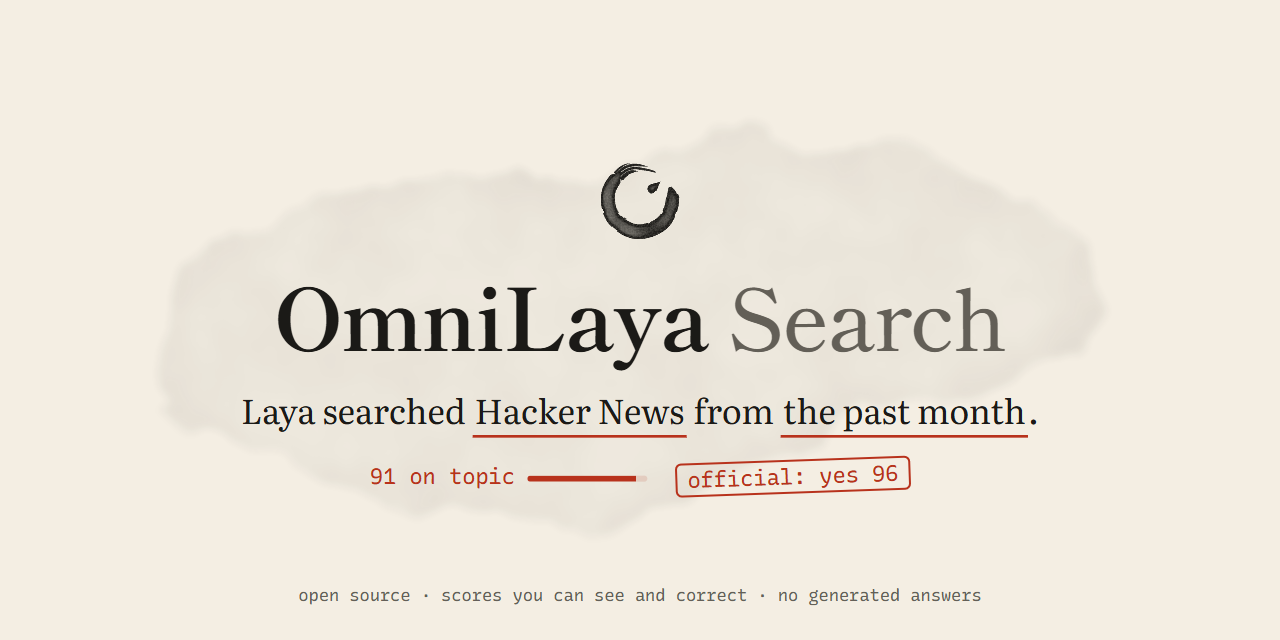
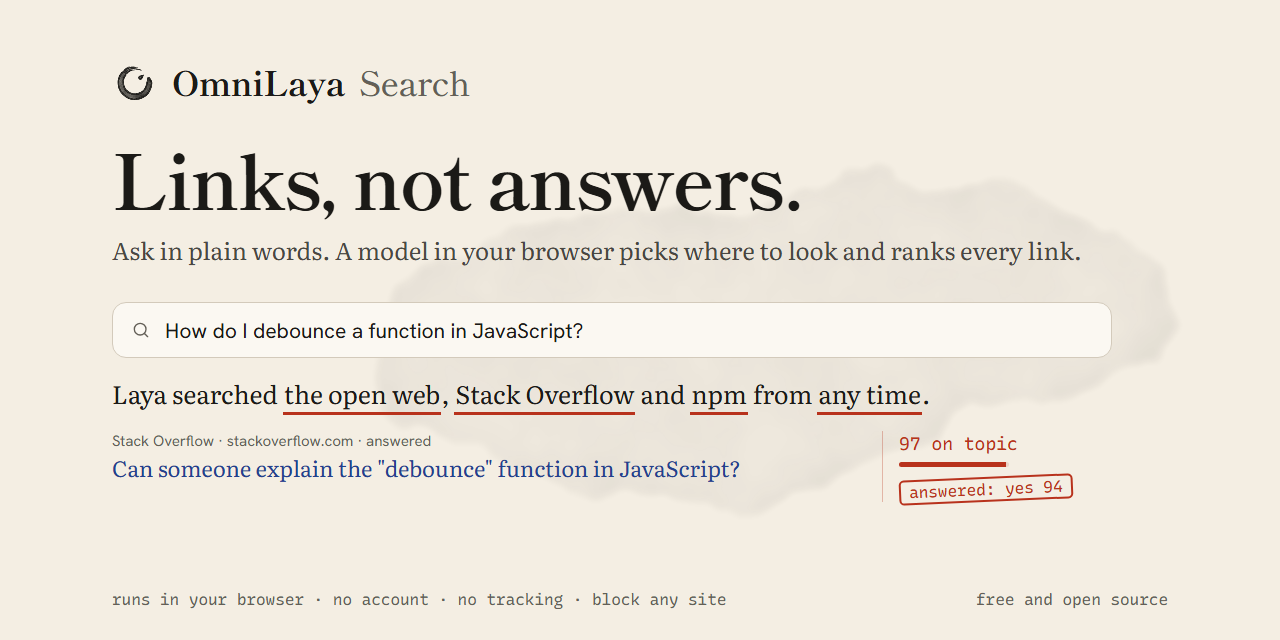
Position OmniLaya as "links, not answers"
Copy now follows what people ask of search in 2025 and 2026 (forum
research): give me the links, let me block sites, no account or
tracking. New share image showing a multi-place search, a rewritten
home page, about intro and README "Why OmniLaya" section with sourced
figures (Pew 2025, Spracklen et al. 2024) and plain limits.

diff --git a/brand/og.html b/brand/og.html
@@ -3,31 +3,60 @@
 <head>
 <meta charset="utf-8">
 <title>OmniLaya share image</title>
-<link rel="stylesheet" href="https://fonts.googleapis.com/css2?family=Shippori+Mincho:wght@500;700&family=Literata:opsz,wght@7..72,400;7..72,500&family=Hanken+Grotesk:wght@400;500&family=Recursive:wght,CASL,MONO@400..600,0..1,0..1&display=swap">
+<link rel="stylesheet" href="https://fonts.googleapis.com/css2?family=Shippori+Mincho:wght@500;700&family=Literata:opsz,wght@7..72,400;7..72,500&family=Hanken+Grotesk:wght@400;500;600&family=Recursive:wght,CASL,MONO@400..600,0..1,0..1&display=swap">
 <style>
-  /* Rendered at 1200x630 into public/og-home.png. Colours and faces from DESIGN.md. */
+  /*
+   * Rendered at 1200x630 into public/og-home.png (and local/public/og-home.png),
+   * then centred on 1280x640 paper for brand/github/social-preview.png.
+   * Colours and faces from DESIGN.md: seal red only on what Laya decided.
+   */
   html, body { margin: 0; width: 1200px; height: 630px; overflow: hidden; background: #f4eee3; color: #1b1a17; font-family: 'Hanken Grotesk', sans-serif; }
-  .wash { position: absolute; left: 50%; top: 50%; width: 1300px; transform: translate(-50%, -50%); opacity: 0.1; }
-  .wrap { position: relative; height: 100%; display: flex; flex-direction: column; align-items: center; justify-content: center; }
-  h1 { margin: 20px 0 0; font: 700 86px/1 'Shippori Mincho', Georgia, serif; letter-spacing: -0.02em; }
-  h1 span { font-weight: 500; color: #635f57; }
-  .sentence { margin: 30px 0 0; font: 400 34px/1.4 Literata, Georgia, serif; }
-  .pick { border-bottom: 3px solid #b8321c; padding: 0 2px; }
-  .mark { margin-top: 26px; display: flex; gap: 28px; align-items: center; font: 22px Recursive, monospace; font-variation-settings: 'MONO' 1, 'CASL' 0.6; color: #b8321c; }
-  .tick { width: 120px; height: 6px; border-radius: 3px; background: rgba(184, 50, 28, 0.14); overflow: hidden; display: inline-block; vertical-align: middle; margin-left: 12px; }
-  .tick i { display: block; width: 91%; height: 100%; background: #b8321c; }
-  .stamp { border: 2px solid #b8321c; border-radius: 6px; padding: 2px 10px; transform: rotate(-2deg); }
-  .foot { position: absolute; bottom: 30px; font: 17px Recursive, monospace; font-variation-settings: 'MONO' 1, 'CASL' 0.6; color: #635f57; }
+  .wash { position: absolute; left: 62%; top: 52%; width: 1100px; transform: translate(-50%, -50%); opacity: 0.09; }
+  .wrap { position: relative; height: 100%; box-sizing: border-box; padding: 54px 72px 0; }
+  .brand { display: flex; align-items: center; gap: 14px; font: 700 34px/1 'Shippori Mincho', Georgia, serif; letter-spacing: -0.015em; }
+  .brand span { font-weight: 500; color: #635f57; }
+  h1 { margin: 34px 0 0; font: 700 76px/1.02 'Shippori Mincho', Georgia, serif; letter-spacing: -0.025em; }
+  .sub { margin: 16px 0 0; font: 400 24px/1.4 Literata, Georgia, serif; color: rgba(27, 26, 23, 0.8); }
+  .page { margin-top: 36px; width: 1000px; }
+  .query { display: flex; align-items: center; gap: 14px; height: 54px; padding: 0 18px; border: 1px solid #d3cabb; border-radius: 14px; background: #fbf8f2; font-size: 21px; color: #1b1a17; }
+  .query svg { flex: none; }
+  .sentence { margin: 18px 0 0; font: 400 25px/1.4 Literata, Georgia, serif; }
+  .pick { border-bottom: 3px solid #b8321c; padding: 0 1px; }
+  .row { margin-top: 20px; display: grid; grid-template-columns: 1fr 230px; gap: 26px; align-items: start; }
+  .meta { font-size: 15px; color: #635f57; }
+  .title { margin-top: 3px; font: 400 22px/1.3 Literata, Georgia, serif; color: #23408e; }
+  .margin { border-left: 1px solid rgba(184, 50, 28, 0.3); padding: 2px 0 0 16px; font: 18px Recursive, monospace; font-variation-settings: 'MONO' 1, 'CASL' 0.6; color: #b8321c; }
+  .tick { margin-top: 7px; width: 110px; height: 5px; border-radius: 3px; background: rgba(184, 50, 28, 0.14); overflow: hidden; }
+  .tick i { display: block; width: 97%; height: 100%; background: #b8321c; }
+  .stamp { display: inline-block; margin-top: 10px; border: 2px solid #b8321c; border-radius: 5px; padding: 1px 8px; transform: rotate(-2.5deg); font-size: 16px; }
+  .foot { position: absolute; left: 72px; right: 72px; bottom: 26px; display: flex; justify-content: space-between; font: 16px Recursive, monospace; font-variation-settings: 'MONO' 1, 'CASL' 0.6; color: #635f57; }
 </style>
 </head>
 <body>
   <img class="wash" src="../public/wash.webp" alt="">
   <div class="wrap">
-    <img src="logo/mark-wash.svg" width="104" height="104" alt="">
-    <h1>OmniLaya <span>Search</span></h1>
-    <p class="sentence">Laya searched <span class="pick">Hacker News</span> from <span class="pick">the past month</span>.</p>
-    <div class="mark"><span>91 on topic<span class="tick"><i></i></span></span><span class="stamp">official: yes 96</span></div>
-    <div class="foot">open source · scores you can see and correct · no generated answers</div>
+    <div class="brand"><img src="logo/mark-wash.svg" width="46" height="46" alt="">OmniLaya <span>Search</span></div>
+    <h1>Links, not answers.</h1>
+    <p class="sub">Ask in plain words. A model in your browser picks where to look and ranks every link.</p>
+    <div class="page">
+      <div class="query">
+        <svg width="20" height="20" viewBox="0 0 24 24" fill="none" stroke="#635f57" stroke-width="1.6" stroke-linecap="round"><circle cx="11" cy="11" r="7"/><path d="m20 20-3.5-3.5"/></svg>
+        How do I debounce a function in JavaScript?
+      </div>
+      <p class="sentence">Laya searched <span class="pick">the open web</span>, <span class="pick">Stack Overflow</span> and <span class="pick">npm</span> from <span class="pick">any time</span>.</p>
+      <div class="row">
+        <div>
+          <div class="meta">Stack Overflow · stackoverflow.com · answered</div>
+          <div class="title">Can someone explain the "debounce" function in JavaScript?</div>
+        </div>
+        <div class="margin">
+          <div>97 on topic</div>
+          <div class="tick"><i></i></div>
+          <span class="stamp">answered: yes 94</span>
+        </div>
+      </div>
+    </div>
   </div>
+  <div class="foot"><span>runs in your browser · no account · no tracking · block any site</span><span>free and open source</span></div>
 </body>
 </html>

diff --git a/local/src/app.tsx b/local/src/app.tsx
@@ -83,15 +83,19 @@ function SearchForm({ initial, compact, onSearch }: { initial: string; compact?:
 }
 
 const EXAMPLES = [
-  'Rust async runtimes on Hacker News this month',
   'How do I debounce a function in JavaScript?',
+  'A maintained date library for TypeScript',
+  'Rust async runtimes on Hacker News this month',
   'New papers on speculative decoding',
 ];
 
+// Written from what people ask of search in 2025 and 2026: "just give me the links", block sites
+// they do not trust, and no account or tracking. See README, "Why OmniLaya".
 const PROMISES = [
-  ['Runs on your device', 'Laya, the model that reads your request and ranks the results, runs in this tab. There is no OmniLaya server.'],
-  ['Every score in the open', 'Each result shows how sure Laya is, and you can strike a place, move the cutoff, or mark Laya wrong.'],
-  ['Free, no account', 'Keyless open sources: an open web index, Wikipedia, Hacker News, GitHub, Stack Overflow, OpenAlex, Open Library and npm.'],
+  ['Just the links', 'No AI answer on top, so there is nothing made up to check. You get the docs, repos, threads, packages and papers, and judge them yourself.'],
+  ['The right places, picked for you', 'Ask in plain words. Laya decides where to look: the open web, GitHub, npm, Stack Overflow, Hacker News, papers, books or Wikipedia. Every package and repo shown is a real entry.'],
+  ['You set the rules', 'Block, raise or lower any site. Hide results below a score you choose. Ask a yes or no question, like "Is this official documentation?", and every result gets an answer.'],
+  ['No account, no tracking, free', 'Laya runs in this tab, and your search goes straight to those sources with no OmniLaya server in between. Open source, so anyone can host a copy.'],
 ] as const;
 
 export function App() {
@@ -144,7 +148,7 @@ export function App() {
       document.title = `${params.q} · OmniLaya Search`;
     } else {
       robots?.remove();
-      document.title = 'OmniLaya Search: search that runs on your device';
+      document.title = 'OmniLaya Search: links, not answers';
     }
   }, [params.q]);
 
@@ -285,7 +289,7 @@ export function App() {
           OmniLaya <span className="font-medium text-muted-foreground">Search</span>
         </h1>
         <p className="mt-3 max-w-md text-balance text-center text-[15px] text-muted-foreground sm:text-base">
-          Search that runs on your device. No server, no account, every score in the open.
+          Links, not answers. Ask in plain words, and a model on your device picks where to look and ranks every link.
         </p>
         <div className="mt-8 w-full">
           <SearchForm initial="" onSearch={(q) => go({ q })} />
@@ -302,7 +306,7 @@ export function App() {
         <div className="mt-10 w-full">
           <LayaCard fastGpu={fastGpu} onLoad={() => laya.load()} onRemove={removeLaya} status={status} />
         </div>
-        <dl className="mt-12 grid w-full gap-5 border-t-[3px] border-double border-border pt-6 text-sm sm:grid-cols-3">
+        <dl className="mt-12 grid w-full gap-x-8 gap-y-6 border-t-[3px] border-double border-border pt-6 text-sm sm:grid-cols-2">
           {PROMISES.map(([title, body]) => (
             <div key={title}>
               <dt className="text-[11px] font-semibold uppercase tracking-[0.1em] text-muted-foreground">{title}</dt>
@@ -310,6 +314,13 @@ export function App() {
             </div>
           ))}
         </dl>
+        <p className="mt-8 w-full border-t border-dashed border-border pt-4 text-[13px] text-muted-foreground">
+          Good to know: it works best in a desktop browser with WebGPU, and the first visit downloads Laya once (614 MB). The open web
+          index it uses is small, so it is better at finding developer sources than at general web search. It cannot search Reddit or X.{' '}
+          <a className="underline underline-offset-2 hover:text-foreground" href="about">
+            More on how it works
+          </a>
+        </p>
         <p className="readout mt-10 text-center text-muted-foreground">
           Judgment by{' '}
           <a className="underline underline-offset-2" href="https://huggingface.co/convaiinnovations/laya" rel="noreferrer" target="_blank">

diff --git a/local/index.html b/local/index.html
@@ -4,25 +4,25 @@
     <meta charset="utf-8" />
     <meta name="viewport" content="width=device-width, initial-scale=1" />
     <meta name="theme-color" content="#f4eee3" />
-    <title>OmniLaya Search: search that runs on your device</title>
+    <title>OmniLaya Search: links, not answers</title>
     <meta
       name="description"
-      content="Open-source web search where Laya, a small decision model, runs in your browser to pick the sources and rank every result. No server, no account, no generated answers."
+      content="Search that gives you links, not AI answers. A small model in your browser picks where to look (the open web, GitHub, npm, Stack Overflow, Hacker News, papers, Wikipedia) and ranks every result. No account, no tracking, free and open source."
     />
     <link rel="canonical" href="%SITE_URL%" />
     <meta property="og:type" content="website" />
     <meta property="og:site_name" content="OmniLaya Search" />
     <meta property="og:url" content="%SITE_URL%" />
-    <meta property="og:title" content="OmniLaya Search: search that runs on your device" />
-    <meta property="og:description" content="Laya picks where to search and ranks every result in your browser. Every score in the open." />
-    <meta property="og:image" content="%SITE_URL%og-home.png" />
+    <meta property="og:title" content="OmniLaya Search: links, not answers" />
+    <meta property="og:description" content="Ask in plain words. A model in your browser picks where to look and ranks every link. No AI answers, no account, no tracking." />
+    <meta property="og:image" content="%SITE_URL%og-home.png?v=3" />
     <meta property="og:image:width" content="1200" />
     <meta property="og:image:height" content="630" />
-    <meta property="og:image:alt" content="OmniLaya Search wordmark under an ink enso, with the line: Laya searched Hacker News from the past month, and a score of 91 on topic." />
+    <meta property="og:image:alt" content="OmniLaya Search: Links, not answers. A search for how to debounce a function in JavaScript, where Laya searched the open web, Stack Overflow and npm, and scored a Stack Overflow answer 97 on topic." />
     <meta name="twitter:card" content="summary_large_image" />
-    <meta name="twitter:title" content="OmniLaya Search: search that runs on your device" />
-    <meta name="twitter:description" content="Laya picks where to search and ranks every result in your browser. Every score in the open." />
-    <meta name="twitter:image" content="%SITE_URL%og-home.png" />
+    <meta name="twitter:title" content="OmniLaya Search: links, not answers" />
+    <meta name="twitter:description" content="Ask in plain words. A model in your browser picks where to look and ranks every link. No AI answers, no account, no tracking." />
+    <meta name="twitter:image" content="%SITE_URL%og-home.png?v=3" />
     <link rel="icon" type="image/svg+xml" href="favicon.svg" />
     <link rel="apple-touch-icon" href="apple-touch-icon.png" />
     <link rel="manifest" href="manifest.webmanifest" />
@@ -32,7 +32,7 @@
         "@type": "WebApplication",
         "name": "OmniLaya Search",
         "url": "%SITE_URL%",
-        "description": "Open-source web search where Laya, a small decision model, runs in your browser to pick the sources and rank every result.",
+        "description": "Search that gives you links, not AI answers. A small model in your browser picks where to look and ranks every result.",
         "applicationCategory": "SearchApplication",
         "operatingSystem": "Any browser with WebGPU, or any modern browser on the CPU",
         "browserRequirements": "Requires JavaScript. WebGPU recommended.",

diff --git a/local/about.html b/local/about.html
@@ -14,15 +14,15 @@
     <meta property="og:site_name" content="OmniLaya Search" />
     <meta property="og:url" content="%SITE_URL%about" />
     <meta property="og:title" content="About OmniLaya Search" />
-    <meta property="og:description" content="Laya picks where to search and ranks every result in your browser. Every score in the open." />
-    <meta property="og:image" content="%SITE_URL%og-home.png" />
+    <meta property="og:description" content="How OmniLaya works, who sees your search, what stays on your device, and what it does not do well yet." />
+    <meta property="og:image" content="%SITE_URL%og-home.png?v=3" />
     <meta property="og:image:width" content="1200" />
     <meta property="og:image:height" content="630" />
-    <meta property="og:image:alt" content="OmniLaya Search wordmark under an ink enso, with the line: Laya searched Hacker News from the past month, and a score of 91 on topic." />
+    <meta property="og:image:alt" content="OmniLaya Search: Links, not answers. A search for how to debounce a function in JavaScript, where Laya searched the open web, Stack Overflow and npm, and scored a Stack Overflow answer 97 on topic." />
     <meta name="twitter:card" content="summary_large_image" />
     <meta name="twitter:title" content="About OmniLaya Search" />
-    <meta name="twitter:description" content="Laya picks where to search and ranks every result in your browser. Every score in the open." />
-    <meta name="twitter:image" content="%SITE_URL%og-home.png" />
+    <meta name="twitter:description" content="How OmniLaya works, who sees your search, what stays on your device, and what it does not do well yet." />
+    <meta name="twitter:image" content="%SITE_URL%og-home.png?v=3" />
     <link rel="icon" type="image/svg+xml" href="favicon.svg" />
     <link rel="apple-touch-icon" href="apple-touch-icon.png" />
     <link rel="manifest" href="manifest.webmanifest" />

diff --git a/local/src/about.tsx b/local/src/about.tsx
@@ -89,6 +89,11 @@ export function About() {
             request, picks where to look, and scores every result on your own device. It never writes an answer for you: you get the
             results, with each score shown in the margin.
           </p>
+          <p className="print mt-3 text-[17px] leading-7 text-foreground/85">
+            Why it exists: many search pages and chat tools now put a generated answer first. When you need the actual page (the docs,
+            the repo, the package, the thread), you still have to dig for the link and check whether it is real. OmniLaya skips the
+            answer and gives you the links, from places developers already use, with no account and nothing tracked.
+          </p>
         </div>
 
         <Section id="how" title="What happens when you search">

diff --git a/src/lib/seo.ts b/src/lib/seo.ts
@@ -3,7 +3,7 @@ export const SITE_ORIGIN = 'https://omnilaya-search.workers.dev';
 export const HOME_CANONICAL = `${SITE_ORIGIN}/`;
 export const SITEMAP_URL = `${SITE_ORIGIN}/sitemap.xml`;
 // Social networks cache the card by URL; bump the version whenever the image changes.
-export const SHARE_IMAGE = `${SITE_ORIGIN}/og-home.png?v=2`;
+export const SHARE_IMAGE = `${SITE_ORIGIN}/og-home.png?v=3`;
 
 /** Result URLs are queries, not documents. Allow crawling so the directive is visible. */
 export const SEARCH_ROBOTS = 'noindex, follow';

diff --git a/README.md b/README.md
@@ -1,14 +1,29 @@
 # OmniLaya Search
 
-[![OmniLaya Search homepage](public/og-home.png)](https://omnilaya.pages.dev/)
+**Links, not answers.** Ask in plain words, and a small model running in your browser picks where to look and ranks every link. No AI answer, no account, no tracking.
 
-**Try it in your browser: [omnilaya.pages.dev](https://omnilaya.pages.dev/)** · [How it works and privacy](https://omnilaya.pages.dev/about)
+[![OmniLaya Search: links, not answers](public/og-home.png)](https://omnilaya.pages.dev/)
 
-Search the web in plain language. [Laya](https://github.com/NandhaKishorM/laya), a small non-autoregressive decision model from Convai Innovations, chooses where to search and how recent the results should be, then scores every result that comes back through [Search1API](https://www.search1api.com). You get links and snippets with visible relevance scores and editable filters. No generated answers.
+**Try it: [omnilaya.pages.dev](https://omnilaya.pages.dev/)** · [How it works and privacy](https://omnilaya.pages.dev/about)
 
-Laya answers typed questions (`choice`, `score`, `noul`) about a piece of text in one forward pass and never writes text, so every decision on the page is a probability you can see. OmniLaya runs Laya through its own HTTP server, `laya-serve`, which you host.
+## Why OmniLaya
 
-OmniLaya Search is a port of [Jev Search](https://github.com/superagents-lab/jev-search) (MIT) from TypeSafe's Jev to Laya. It is an independent project, not an official Convai Innovations or Search1API product.
+Search pages and chat tools now put a generated answer first. When you need the actual page (the docs, the repo, the package, the thread), you still dig for the link and check whether it is real. In Pew's 2025 study, people clicked a search result on 8% of visits when Google showed an AI summary, against 15% without one, and clicked a link inside the summary on 1% ([Pew Research](https://www.pewresearch.org/short-reads/2025/07/22/google-users-are-less-likely-to-click-on-links-when-an-ai-summary-appears-in-the-results/)). For code it is riskier: a 2024 study found that at least 5.2% of packages suggested by commercial code models, and 21.7% by open-source ones, did not exist ([Spracklen et al.](https://arxiv.org/abs/2406.10279)).
+
+What people keep asking for in developer forums is simple: "just give me the links", let me block sites I do not trust, and do not make me sign up or pay. That is what OmniLaya does:
+
+- **Just the links.** No generated answer, so there is nothing made up to check. You read the sources and judge them yourself.
+- **The right places, picked for you.** Laya reads your request and decides where to look: the open web, GitHub, npm, Stack Overflow, Hacker News, research papers, books or Wikipedia. A package or repo in the results is a real entry from that registry.
+- **You set the rules.** Block, raise or lower any site. Hide results below a score you choose. Ask a yes or no question ("Is this official documentation?") and every result is stamped with Laya's answer.
+- **Private and free.** Laya runs in your browser tab and your search goes straight to the sources. There is no OmniLaya server, account or analytics. It is a static site under the MIT license, so anyone can host a copy.
+
+**What it does not do well yet:** the open web index ([Mwmbl](https://mwmbl.org)) is small, so OmniLaya is better at finding developer sources than at general web search, and it is not a Google replacement. Reddit, X and arXiv do not allow searches from a browser. The first visit downloads Laya once (614 MB), and it is fast only with WebGPU, so a desktop browser works best.
+
+## About the model
+
+[Laya](https://github.com/NandhaKishorM/laya) is a small non-autoregressive decision model from Convai Innovations. It answers typed questions (`choice`, `score`, `noul`) about a piece of text in one forward pass and never writes text, so every decision on the page is a probability you can see.
+
+OmniLaya Search started as a port of [Jev Search](https://github.com/superagents-lab/jev-search) (MIT) from TypeSafe's Jev to Laya. It is an independent project, not an official Convai Innovations or Search1API product.
 
 ## Two ways to run it
 
@@ -35,7 +50,7 @@ Measured on a Snapdragon laptop (Adreno GPU, Chrome): reading a request 0.2 to 0
 
 To publish: `pnpm deploy:local` builds `dist-local/` and uploads it to the Cloudflare Pages project `omnilaya` (log in once with `npx wrangler login`). Any other static host works too: serve `dist-local/` and set `SITE_URL` to its address when building, so share links and the sitemap point at it.
 
-## How it works
+## How the server app works
 
 1. **Understand.** Laya answers two choice questions about your request in one call: how recent the results should be, and where to search (the open web, Hacker News, Reddit, GitHub, X, arXiv, Wikipedia, IMDb, WeChat or YouTube). Each place Laya gives at least 35% of its choice is searched. As on Jev Search, a platform the request names ("on Hacker News", "Reddit users") is searched on its own, and a platform Laya infers without a name ("new papers" means arXiv) is searched together with the three web engines. When no place stands out, the web engines answer. The page writes this as one sentence ("Laya searched Google, DuckDuckGo and Yandex from any time."); tap a place to strike it out, a struck place to bring it back, or the time to change it.
 2. **Search.** Google, DuckDuckGo and Yandex search the open web. Hacker News, Reddit and GitHub each combine a Google site-restricted search with their own engine. X, arXiv, YouTube, Wikipedia, IMDb and WeChat use vertical engines. Calls run concurrently; one failed engine does not discard another engine's results.
